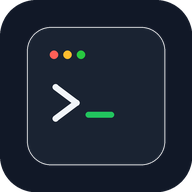
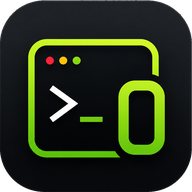
style: overhaul visual identity with premium dark-first theme, custom fonts, and exact color tokens

diff --git a/src/app/globals.css b/src/app/globals.css
@@ -1,48 +1,48 @@
 @import "tailwindcss";
 
 :root {
-  --background: #f9fafb;
-  --foreground: #111827;
-  --card: #ffffff;
-  --card-foreground: #111827;
-  --popover: #ffffff;
-  --popover-foreground: #111827;
-  --primary: #2563eb;
-  --primary-foreground: #ffffff;
-  --secondary: #f3f4f6;
-  --secondary-foreground: #111827;
-  --muted: #f3f4f6;
-  --muted-foreground: #6b7280;
-  --accent: #22c55e;
-  --accent-foreground: #111827;
-  --destructive: #ef4444;
-  --destructive-foreground: #ffffff;
-  --border: #e5e7eb;
-  --input: #e5e7eb;
-  --ring: #2563eb;
+  --background: #0B0F14;
+  --foreground: #F8FAFC;
+  --card: #151B23;
+  --card-foreground: #F8FAFC;
+  --popover: #151B23;
+  --popover-foreground: #F8FAFC;
+  --primary: #00E676;
+  --primary-foreground: #0B0F14;
+  --secondary: #1B2430;
+  --secondary-foreground: #F8FAFC;
+  --muted: #1B2430;
+  --muted-foreground: #94A3B8;
+  --accent: #00C8FF;
+  --accent-foreground: #0B0F14;
+  --destructive: #FF5F56;
+  --destructive-foreground: #F8FAFC;
+  --border: #26303C;
+  --input: #26303C;
+  --ring: #00E676;
   --radius: 0.5rem;
 }
 
 .dark {
-  --background: #111827;
-  --foreground: #f1f5f9;
-  --card: #1a2332;
-  --card-foreground: #f1f5f9;
-  --popover: #1a2332;
-  --popover-foreground: #f1f5f9;
-  --primary: #2563eb;
-  --primary-foreground: #111827;
-  --secondary: #334155;
-  --secondary-foreground: #f1f5f9;
-  --muted: #334155;
-  --muted-foreground: #94a3b8;
-  --accent: #22c55e;
-  --accent-foreground: #111827;
-  --destructive: #ef4444;
-  --destructive-foreground: #f1f5f9;
-  --border: #334155;
-  --input: #334155;
-  --ring: #2563eb;
+  --background: #0B0F14;
+  --foreground: #F8FAFC;
+  --card: #151B23;
+  --card-foreground: #F8FAFC;
+  --popover: #151B23;
+  --popover-foreground: #F8FAFC;
+  --primary: #00E676;
+  --primary-foreground: #0B0F14;
+  --secondary: #1B2430;
+  --secondary-foreground: #F8FAFC;
+  --muted: #1B2430;
+  --muted-foreground: #94A3B8;
+  --accent: #00C8FF;
+  --accent-foreground: #0B0F14;
+  --destructive: #FF5F56;
+  --destructive-foreground: #F8FAFC;
+  --border: #26303C;
+  --input: #26303C;
+  --ring: #00E676;
 }
 
 @theme inline {

diff --git a/src/app/layout.tsx b/src/app/layout.tsx
@@ -1,14 +1,14 @@
 import type { Metadata } from "next";
-import { Geist, Geist_Mono } from "next/font/google";
+import { Inter, JetBrains_Mono } from "next/font/google";
 import "./globals.css";
 
-const geistSans = Geist({
-  variable: "--font-geist-sans",
+const inter = Inter({
+  variable: "--font-sans",
   subsets: ["latin"],
 });
 
-const geistMono = Geist_Mono({
-  variable: "--font-geist-mono",
+const jetbrainsMono = JetBrains_Mono({
+  variable: "--font-mono",
   subsets: ["latin"],
 });
 
@@ -29,7 +29,7 @@ export default function RootLayout({
   return (
     <html
       lang="en"
-      className={`${geistSans.variable} ${geistMono.variable} h-full antialiased`}
+      className={`${inter.variable} ${jetbrainsMono.variable} h-full antialiased dark`}
       suppressHydrationWarning
     >
       <head>
@@ -37,7 +37,7 @@ export default function RootLayout({
         <link rel="shortcut icon" type="image/png" href="./icon-192.png" />
         <link rel="manifest" href="./manifest.json" />
         <link rel="apple-touch-icon" href="./icon-192.png" />
-        <meta name="theme-color" content="#111827" />
+        <meta name="theme-color" content="#0B0F14" />
         <script
           dangerouslySetInnerHTML={{
             __html: `
@@ -54,7 +54,7 @@ export default function RootLayout({
           }}
         />
       </head>
-      <body className="min-h-full flex flex-col bg-[#111827] text-[#f1f5f9]">
+      <body className="min-h-full flex flex-col bg-background text-foreground font-sans">
         {children}
       </body>
     </html>
